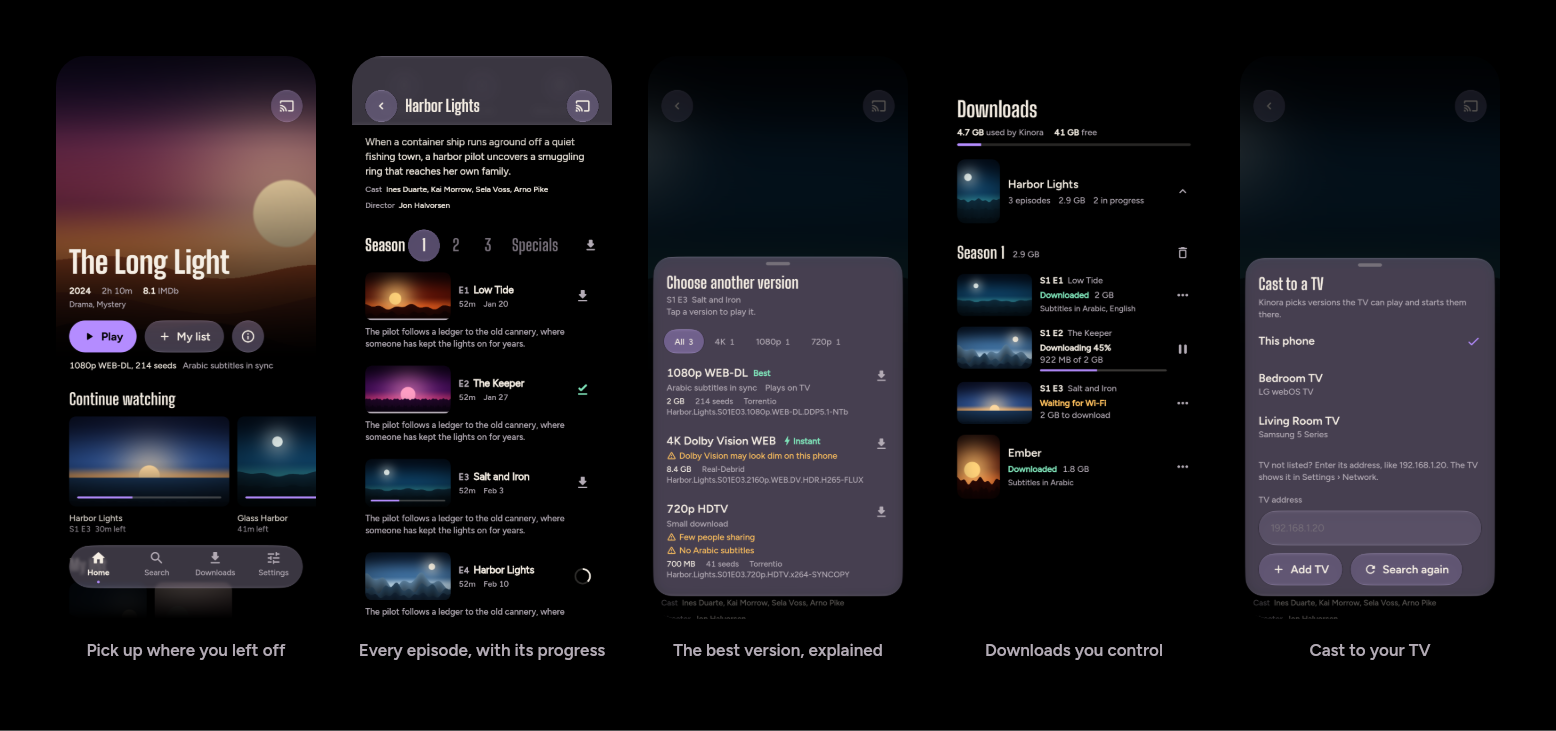
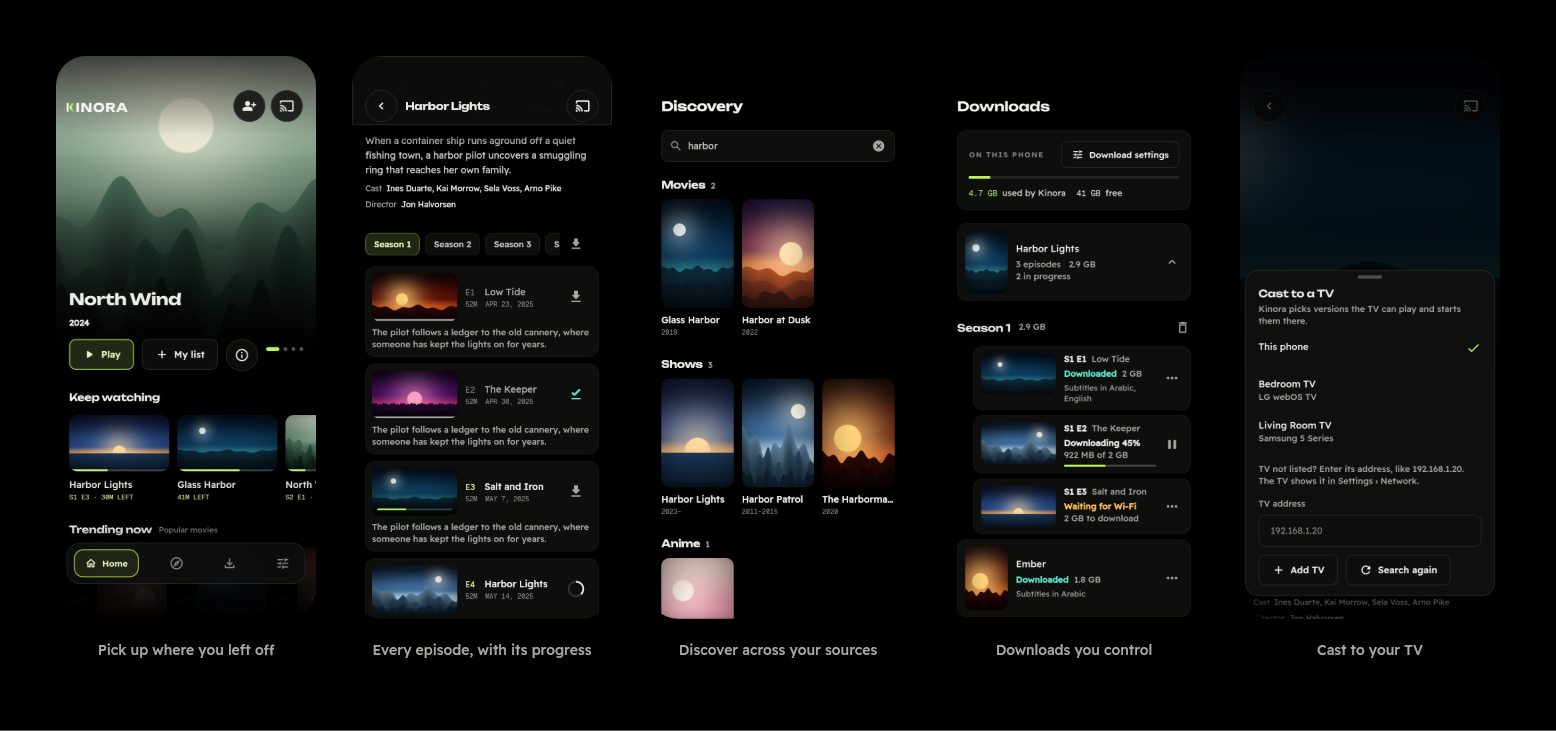
The wordmark: the lime mark is its K
KINORA, its K the mark itself, in the sidebar and over Home on a phone; the
README's banner, screens and a desktop picture show the new design.

diff --git a/app/lib/ui/widgets/brand.dart b/app/lib/ui/widgets/brand.dart
@@ -74,3 +74,67 @@ class KinoraMark extends CustomPainter {
   bool shouldRepaint(KinoraMark oldDelegate) =>
       oldDelegate.lamp != lamp || oldDelegate.light != light;
 }
+
+/// The wordmark: the mark is the K, then "INORA" in the display face, both
+/// [capHeight] tall.
+class KinoraWordmark extends StatelessWidget {
+  const KinoraWordmark({super.key, this.capHeight = 14});
+
+  final double capHeight;
+
+  // The K on the mark's 1024 grid: stem left edge, cap top, cap height and
+  // the width across the chevron's tips.
+  static const _left = 274.0, _top = 252.0, _cap = 520.0, _width = 467.0;
+
+  @override
+  Widget build(BuildContext context) {
+    final scale = capHeight / _cap;
+    // Unbounded's caps are about 0.72 of its size.
+    final fontSize = capHeight / 0.72;
+    return Semantics(
+      label: 'Kinora',
+      excludeSemantics: true,
+      child: Row(
+        mainAxisSize: MainAxisSize.min,
+        children: [
+          SizedBox(
+            width: _width * scale,
+            height: capHeight,
+            child: CustomPaint(painter: _Letter(scale)),
+          ),
+          SizedBox(width: fontSize * 0.08),
+          Text(
+            'INORA',
+            style: TextStyle(
+              fontFamily: KType.display,
+              fontSize: fontSize,
+              height: 1,
+              fontWeight: FontWeight.w700,
+              fontVariations: const [FontVariation.weight(700)],
+              letterSpacing: fontSize * 0.06,
+              color: KColors.title,
+              decoration: TextDecoration.none,
+            ),
+          ),
+        ],
+      ),
+    );
+  }
+}
+
+class _Letter extends CustomPainter {
+  const _Letter(this.scale);
+
+  final double scale;
+
+  @override
+  void paint(Canvas canvas, Size size) {
+    canvas
+      ..translate(-KinoraWordmark._left * scale, -KinoraWordmark._top * scale)
+      ..scale(scale);
+    const KinoraMark().paint(canvas, const Size(1024, 1024));
+  }
+
+  @override
+  bool shouldRepaint(_Letter old) => old.scale != scale;
+}

diff --git a/app/tool/render_readme_test.dart b/app/tool/render_readme_test.dart
@@ -1,7 +1,9 @@
 // Renders the README's images into ../docs/ (the repo root):
 // - banner.png: the README header;
 // - social-preview.png: GitHub › Settings › Social preview (1280 × 640);
-// - screens.png: five screens, made from the golden renders in test/goldens.
+// - screens.png: five phone screens, made from the golden renders in
+//   test/goldens;
+// - desktop.png: Kinora on a computer (the desktop Home render).
 // Run from app/: flutter test tool/render_readme_test.dart
 // (after `flutter test --update-goldens`, so the screens are current).
 import 'dart:io';
@@ -18,9 +20,9 @@ import '../test/goldens/golden_helper.dart';
 
 const _tagline =
     'Stream or download movies and shows, with subtitles in your languages, '
-    'on your phone and on your TV.';
+    'on your phone, your computer and your TV.';
 
-/// The mark switched on in a dark room: its violet light is the only color.
+/// The mark switched on in a dark room: its lime light is the only color.
 class _Banner extends StatelessWidget {
   const _Banner(this.size);
   final Size size;
@@ -116,7 +118,7 @@ class _Banner extends StatelessWidget {
 const _shots = [
   ('screens/home.png', 'Pick up where you left off'),
   ('screens/title_series_episodes.png', 'Every episode, with its progress'),
-  ('screens/version_sheet.png', 'The best version, explained'),
+  ('screens/search_results.png', 'Discover across your sources'),
   ('downloads.png', 'Downloads you control'),
   ('screens/cast_picker.png', 'Cast to your TV'),
 ];
@@ -233,6 +235,11 @@ void main() {
       _Screens(images!),
       _Screens.size,
       '../docs/screens.png',
+    );
+    await tester.runAsync(
+      () =>
+          File('test/goldens/screens/desktop_home.png')
+              .copy('../docs/desktop.png'),
     );
   });
 }

diff --git a/app/lib/app/shell.dart b/app/lib/app/shell.dart
@@ -438,28 +438,13 @@ class _Sidebar extends ConsumerWidget {
       count: count,
       onTap: () => onTab(t.index),
     );
-    final wordmark = Padding(
-      padding: const EdgeInsets.only(left: 12),
+    const wordmark = Padding(
+      padding: EdgeInsets.only(left: 12),
       child: SizedBox(
         height: 34,
-        child: Row(
-          children: [
-            const SizedBox.square(
-              dimension: 24,
-              child: CustomPaint(painter: KinoraMark()),
-            ),
-            const SizedBox(width: 10),
-            Text(
-              'KINORA',
-              style: KType.h2.copyWith(
-                fontSize: 19,
-                letterSpacing: 1.6,
-                color: KColors.title,
-                fontWeight: FontWeight.w700,
-                fontVariations: const [FontVariation.weight(700)],
-              ),
-            ),
-          ],
+        child: Align(
+          alignment: Alignment.centerLeft,
+          child: KinoraWordmark(capHeight: 15),
         ),
       ),
     );
@@ -478,7 +463,10 @@ class _Sidebar extends ConsumerWidget {
             child: Column(
               crossAxisAlignment: CrossAxisAlignment.stretch,
               children: [
-                if (isDesktop) DragToMoveArea(child: wordmark) else wordmark,
+                if (isDesktop)
+                  const DragToMoveArea(child: wordmark)
+                else
+                  wordmark,
                 const SizedBox(height: 24),
                 item(AppTab.home),
                 const SizedBox(height: 2),

diff --git a/app/lib/features/home/home_screen.dart b/app/lib/features/home/home_screen.dart
@@ -271,29 +271,11 @@ class _Wordmark extends StatelessWidget {
   const _Wordmark();
 
   @override
-  Widget build(BuildContext context) => ExcludeSemantics(
-    child: SizedBox(
-      height: 44,
-      child: Row(
-        mainAxisSize: MainAxisSize.min,
-        children: [
-          const SizedBox.square(
-            dimension: 20,
-            child: CustomPaint(painter: KinoraMark()),
-          ),
-          const SizedBox(width: 8),
-          Text(
-            'KINORA',
-            style: KType.h2.copyWith(
-              fontSize: 16,
-              letterSpacing: 1.4,
-              color: KColors.title,
-              fontWeight: FontWeight.w700,
-              fontVariations: const [FontVariation.weight(700)],
-            ),
-          ),
-        ],
-      ),
+  Widget build(BuildContext context) => const SizedBox(
+    height: 44,
+    child: Align(
+      alignment: Alignment.centerLeft,
+      child: KinoraWordmark(capHeight: 13),
     ),
   );
 }
